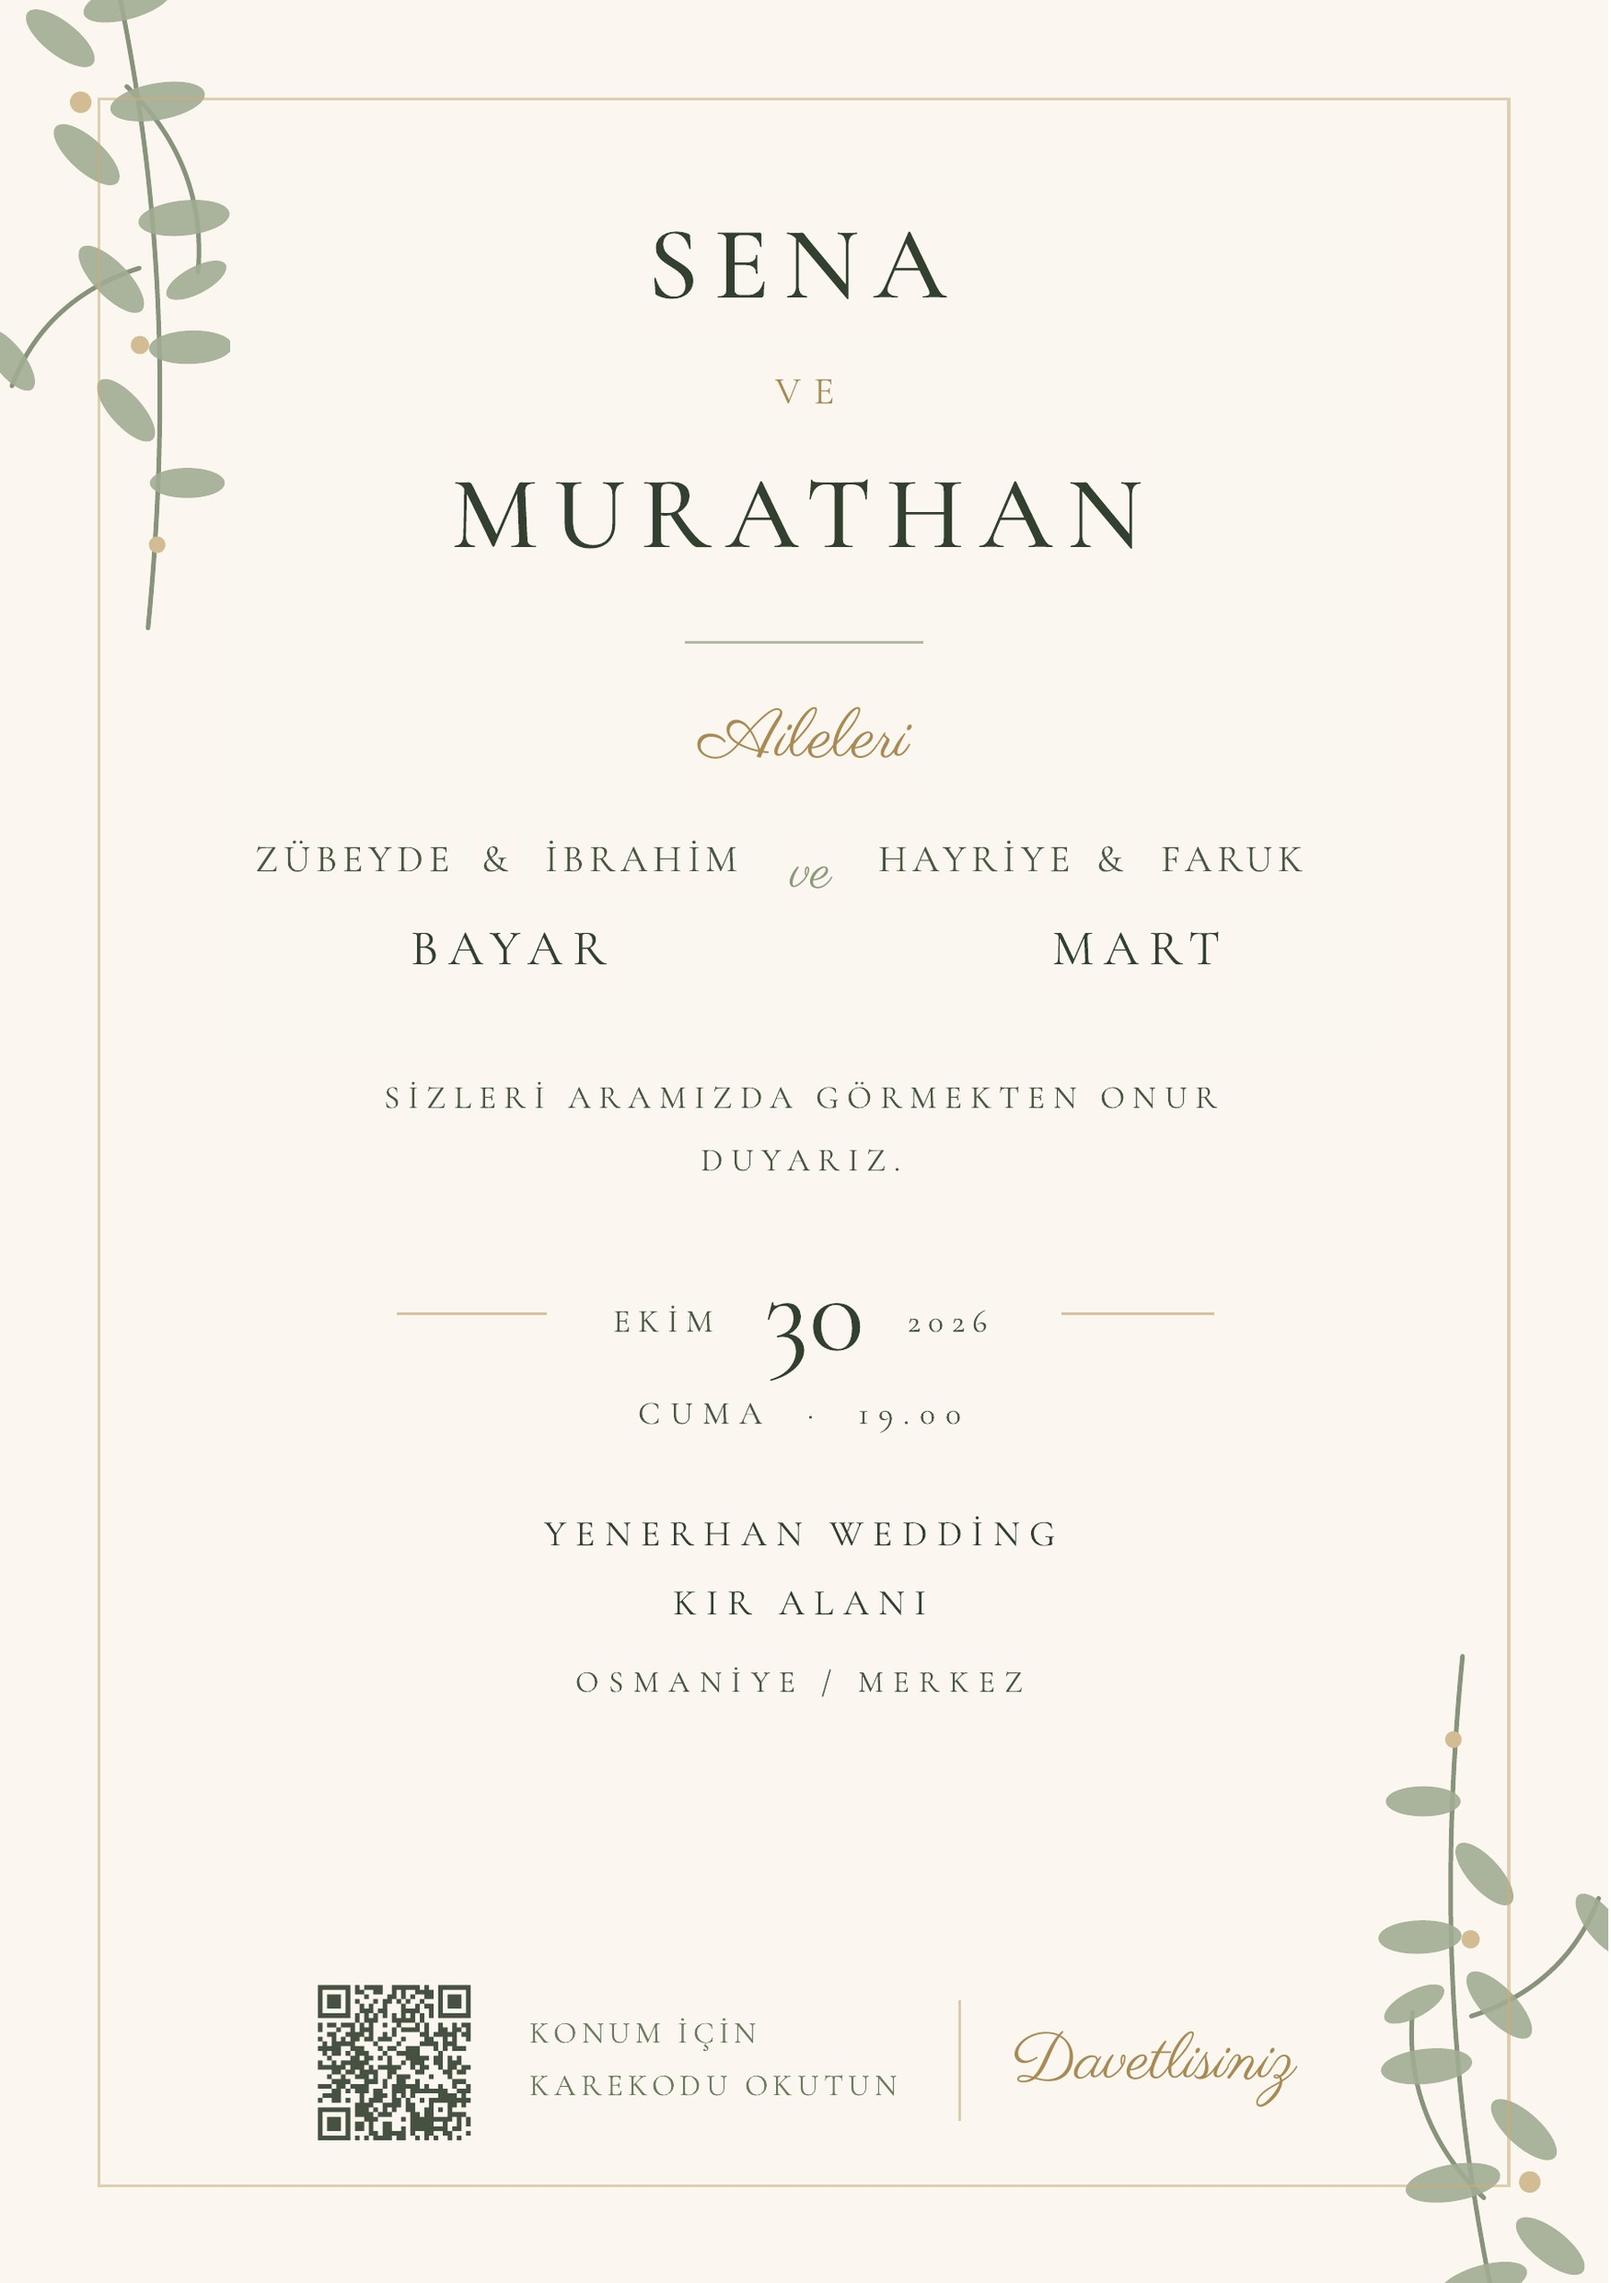
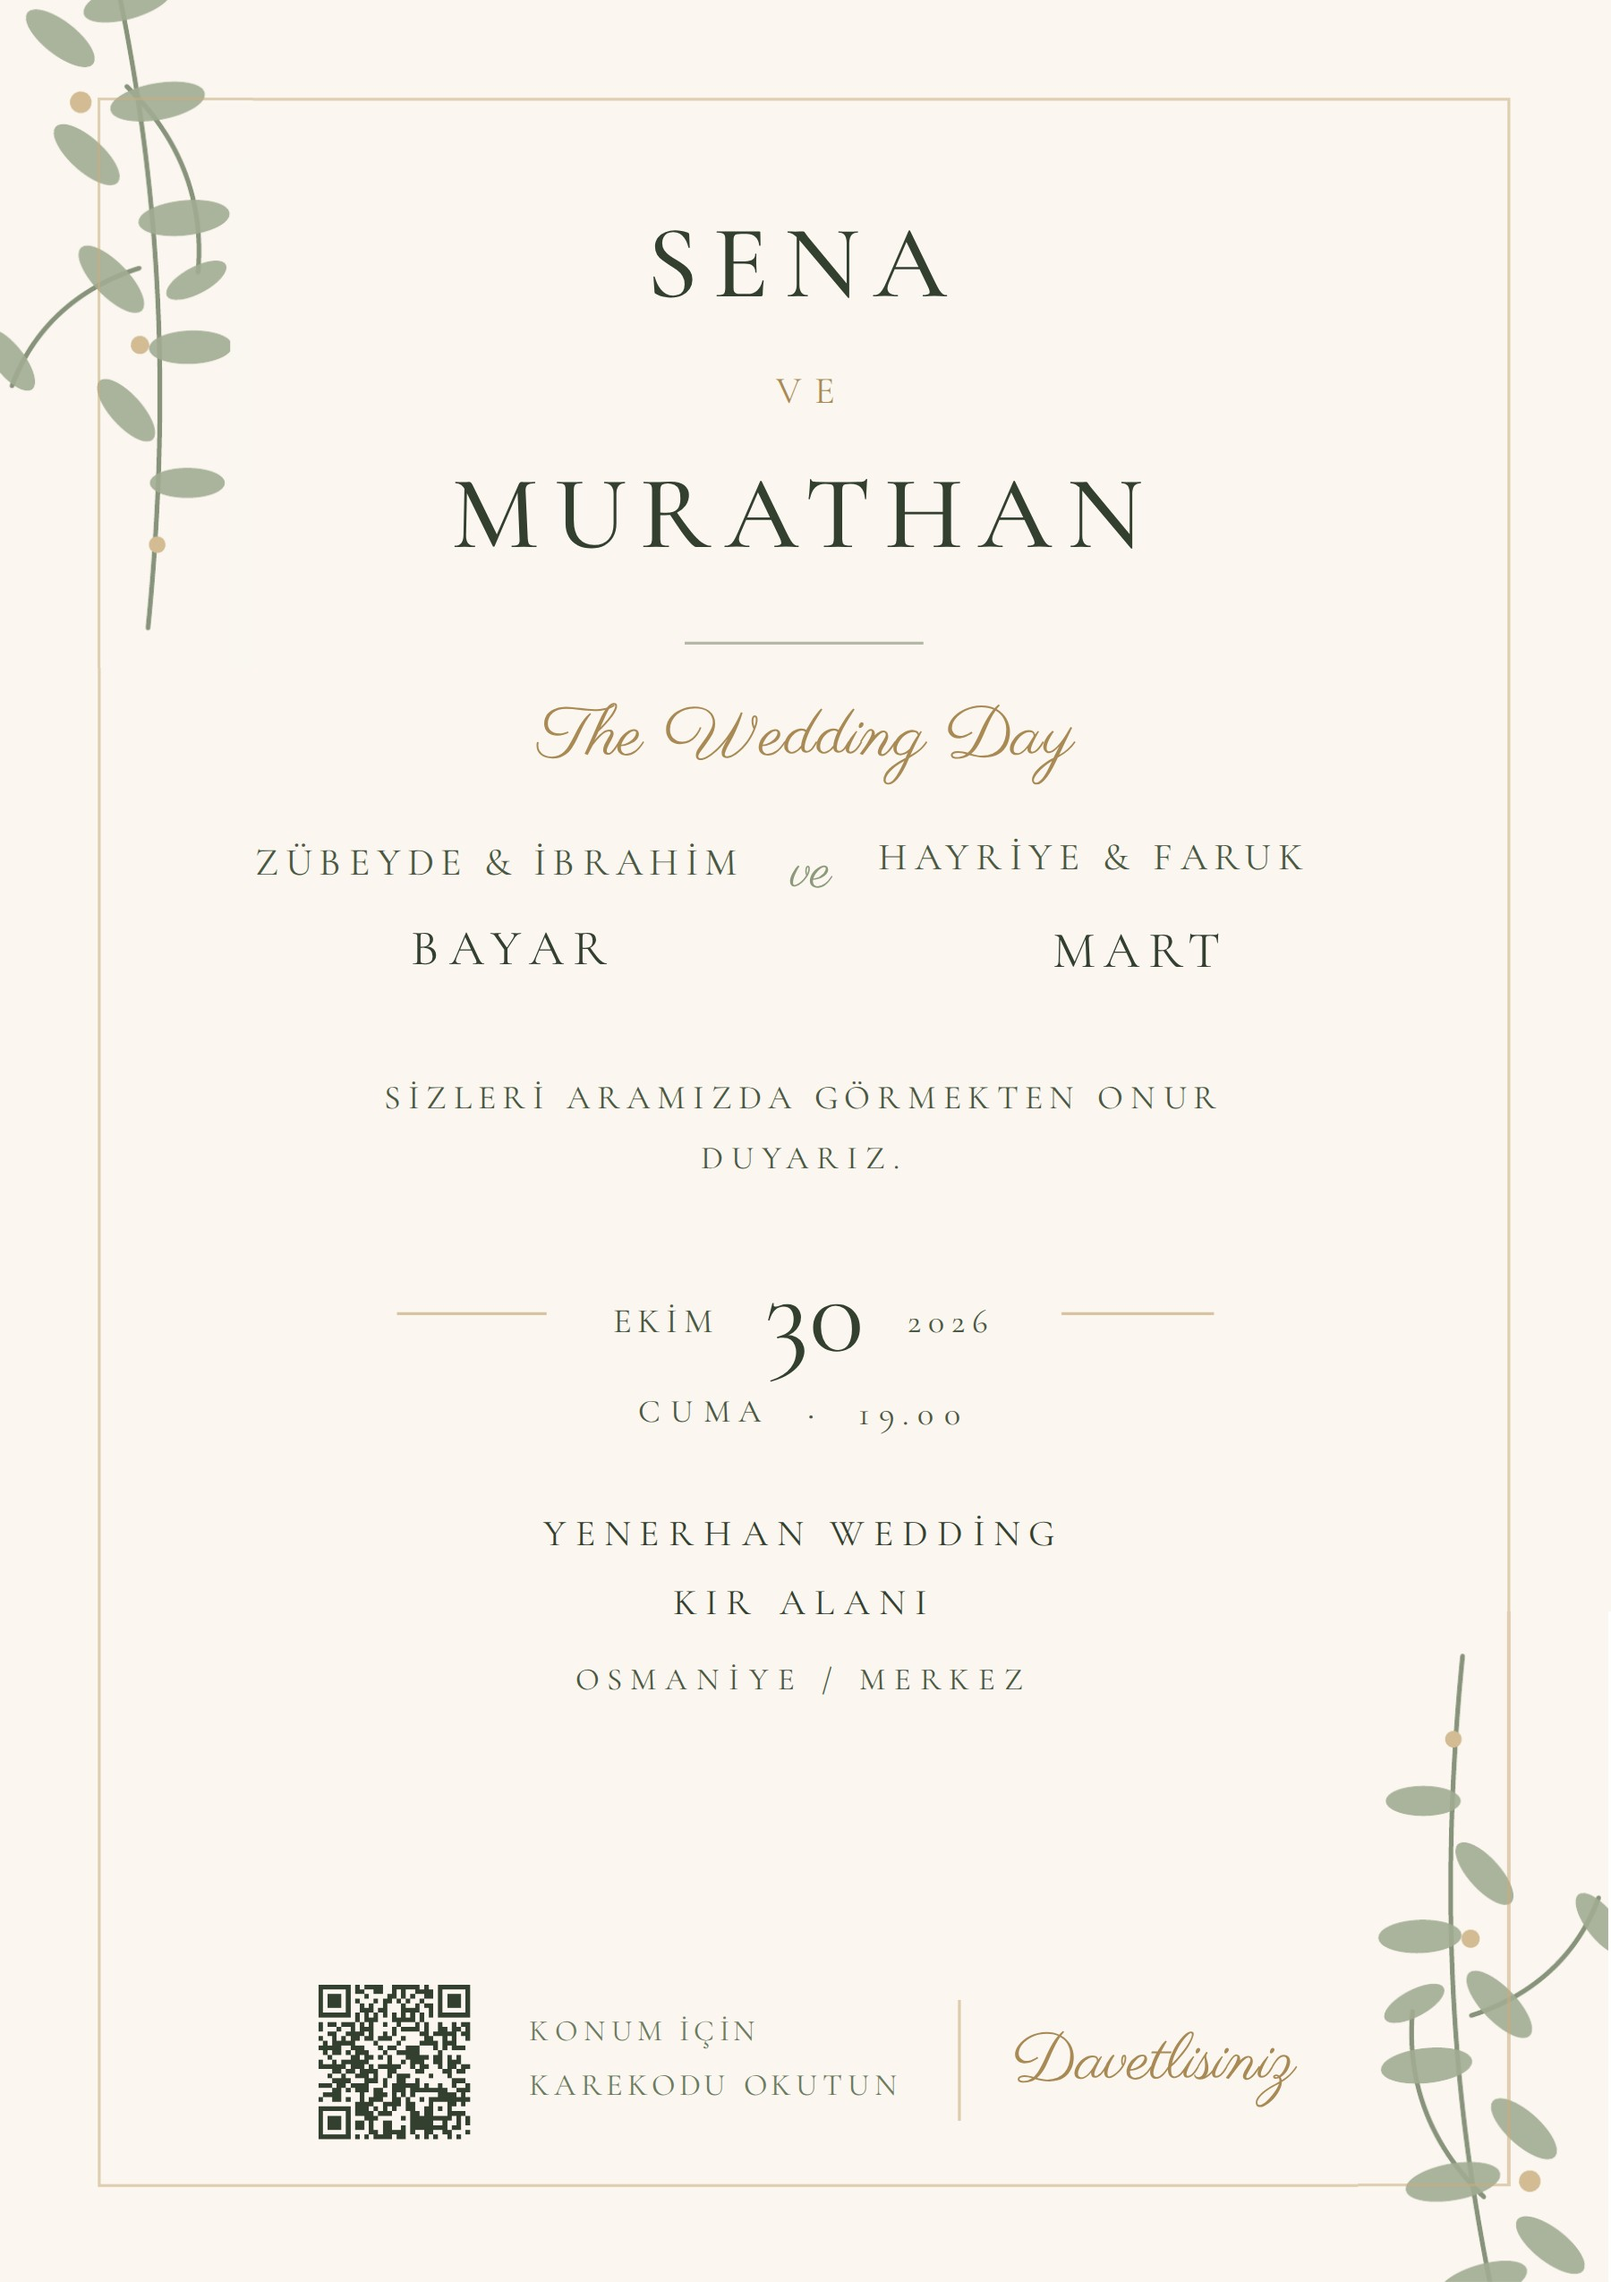
Add files via upload

diff --git a/index.html b/index.html
@@ -252,7 +252,7 @@
     <span class="t c serif nm" data-k="murathan">MURATHAN</span>
 
     <span class="rule" data-k="rule1" aria-hidden="true"></span>
-    <span class="t c script ail goldc" data-k="ail">Aileleri</span>
+    <span class="t c script ail goldc" data-k="ail">The Wedding Day</span>
     <span class="t c serif fam muted" data-k="famL">ZÜBEYDE &amp; İBRAHİM</span>
     <span class="t c script ve-s sagec" data-k="ve">ve</span>
     <span class="t c serif fam muted" data-k="famR">HAYRİYE &amp; FARUK</span>
@@ -325,7 +325,7 @@
     sena:{base:.1837, cap:.0405, w:.1784, cx:.4956},
     veC: {base:.2479, cap:.0126, w:.0327, cx:.4992},
     murathan:{base:.3388, cap:.0405, w:.4226, cx:.4944},
-    ail: {top:.4379, w:.1297, cx:.4986, script:1},
+    ail: {base:.4696, w:.3259, cx:.5000, script:1},
     famL:{base:.5383, cap:.0152, w:.2906, cx:.3051},
     ve:  {top:.5373, w:.0296, cx:.4926, script:1},
     famR:{base:.5383, cap:.0152, w:.2575, cx:.6652},
